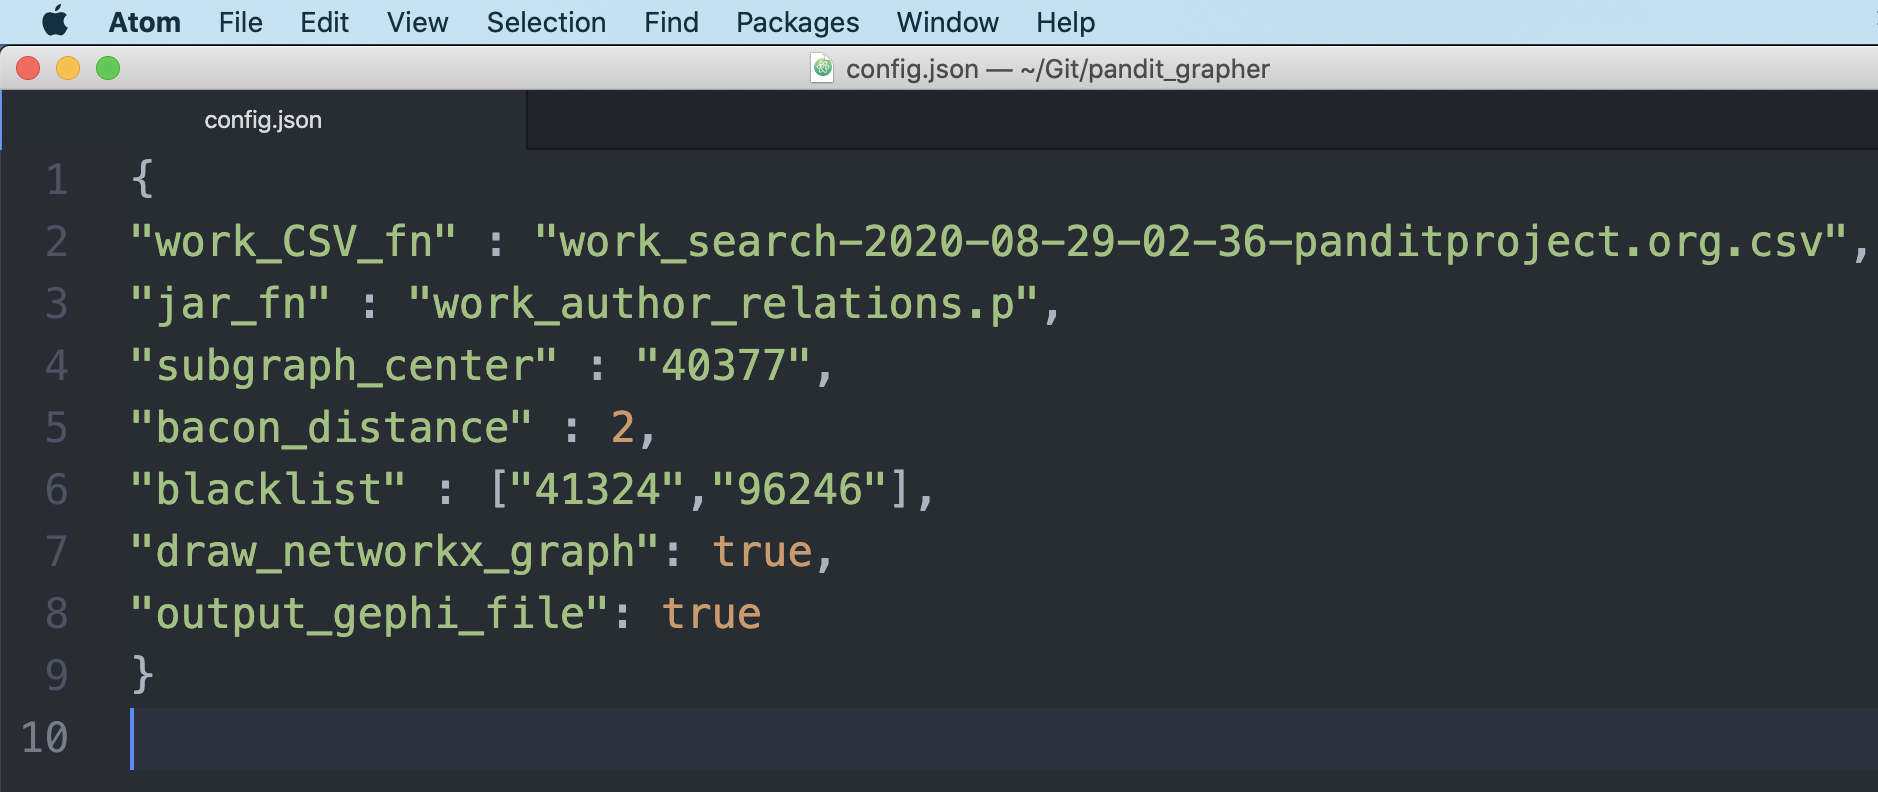
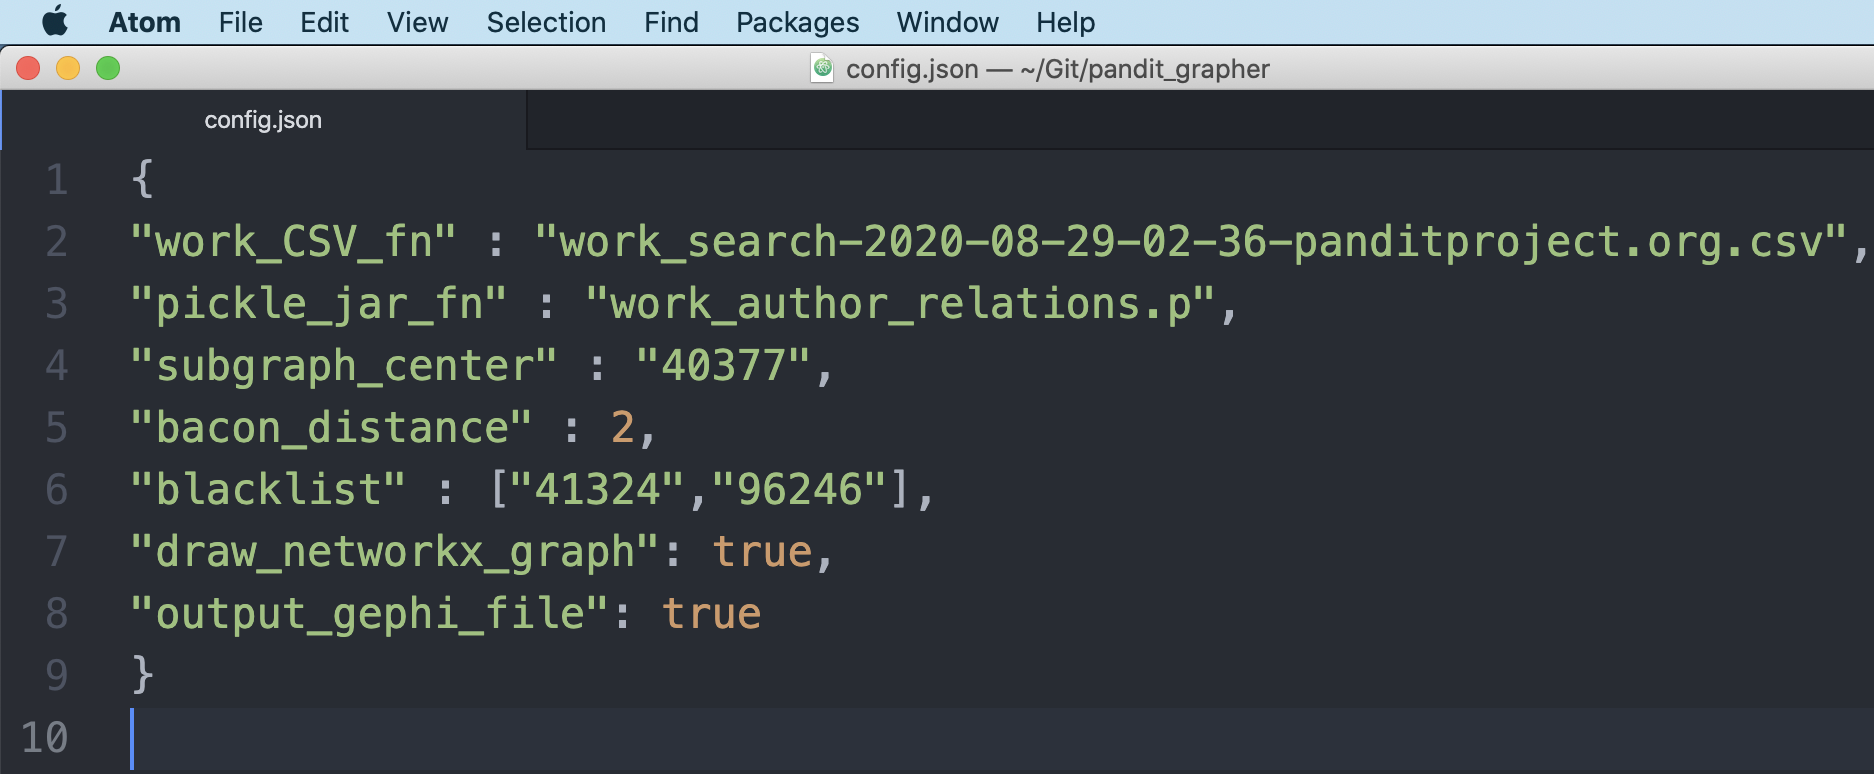
undo code duplication in grapher; small README and screenshot updates

diff --git a/grapher.py b/grapher.py
@@ -21,52 +21,7 @@ G = nx.DiGraph() # nx graph object; used are:
 # .add_edge and .remove_node methods (not .add_node)
 
 subgraph_node_ids = [ ] # Entity objects
-node_ids_to_append_this_time = [ subnetwork_center ] # 5-digit strings
-
-for i in range( int(bacon_distance) + 1 ):
-
-	node_ids_to_append_next_time = []
-
-	for id in node_ids_to_append_this_time:
-
-		# append
-		subgraph_node_ids.append(id)
-
-		# don't do anything else for things on blacklist
-		if id in blacklist: continue
-
-		# create edges and queue up connected nodes for next time
-		E = Entities_by_id[id]
-		if E.type == 'work':
-
-			for author_id in E.author_ids:
-				node_ids_to_append_next_time.append( author_id )
-				G.add_edge(author_id, E.id, arrowstyle = '-[')
-
-			for base_text_id in E.base_text_ids:
-				node_ids_to_append_next_time.append( base_text_id )
-				G.add_edge(base_text_id, E.id, arrowstyle = '->')
-
-			for commentary_id in E.commentary_ids:
-				node_ids_to_append_next_time.append( commentary_id )
-				G.add_edge(E.id, commentary_id, arrowstyle = '->')
-
-		elif E.type == 'author':
-
-			for work_id in E.work_ids:
-				node_ids_to_append_next_time.append( work_id )
-				G.add_edge(E.id, work_id, arrowstyle = '-[')
-
-	# de-dupe, first list-internally, then against previous
-	node_ids_to_append_next_time = list(set(node_ids_to_append_next_time))
-	for id in node_ids_to_append_next_time:
-		if id in subgraph_node_ids:
-			node_ids_to_append_next_time.remove(id)
-
-	node_ids_to_append_this_time = node_ids_to_append_next_time
-
-subgraph_node_ids = [ ] # Entity objects
-node_ids_to_append_this_time = [ subnetwork_center ] # 5-digit strings
+node_ids_to_append_this_time = subnetwork_center # list of 5-digit strings
 
 for i in range( bacon_distance + 1 ):
 

diff --git a/README.md b/README.md
@@ -1,12 +1,14 @@
 # pandit_grapher
 
-Graphs prosophographical relationships in [Pandit](https://www.panditproject.org/) database.
+Graphs person-work and work-work relationships in the [Pandit Project](https://www.panditproject.org/) prosophographical database.
 
 # Requirements
 
 Python 3.
 
-Currently using `networkx` package both for creating graph structure and for drawing visuals. I hope to soon move onto something else for nicer visuals.
+Currently using `networkx` package both for creating the graph structure and for drawing basic visuals.
+
+If you like, you can also use [Gephi](https://gephi.org/), for which basic output is also supported.
 
 # Preparing the Data
 
@@ -28,11 +30,11 @@ Currently using `networkx` package both for creating graph structure and for dra
 python brush_and_floss.py
 ~~~
 
-The resulting pickle file (`work_person_relations.p`) in the `pandit_grapher` directory is what the `grapher` module will draw its work and person data from.
+The resulting pickle file (e.g., `work_person_relations.p`) in the `pandit_grapher` directory is what the `grapher` module will draw its work and person data from.
 
 # Running the `grapher` Module
 
-1. In `config.json`, identify the Pandit ID number of a Person or Work you are interested in. (This is also available on the individual Pandit entity page.) Enter it as the `subnetwork_center` variable (a string) in `config.json`. (The default value is `"40377"` for [Kālidāsa](https://www.panditproject.org/entity/40377/person).)
+1. In `config.json`, identify the Pandit ID number of a Person or Work you are interested in. (This is also available on the individual Pandit entity page.) Enter it as the `subnetwork_center` variable (a string). (The default value is `"40377"` for [Kālidāsa](https://www.panditproject.org/entity/40377/person).)
 
 2. Set the `bacon_distance` to an integer indicating the number of iterations outward from the seed entity to graph (cp. ["Six Degrees of Kevin Bacon"](https://en.wikipedia.org/wiki/Six_Degrees_of_Kevin_Bacon#:~:text=Six%20Degrees%20of%20Kevin%20Bacon%20or%20%22Bacon's%20Law%22%20is%20a,and%20prolific%20actor%20Kevin%20Bacon) and the ["Oracle of Bacon"](https://oracleofbacon.org/)). E.g., `0` means graph the center entity only, `1` means graph one more layer of connections after that, `2` means two more, etc. (The default is `2`.)
 
